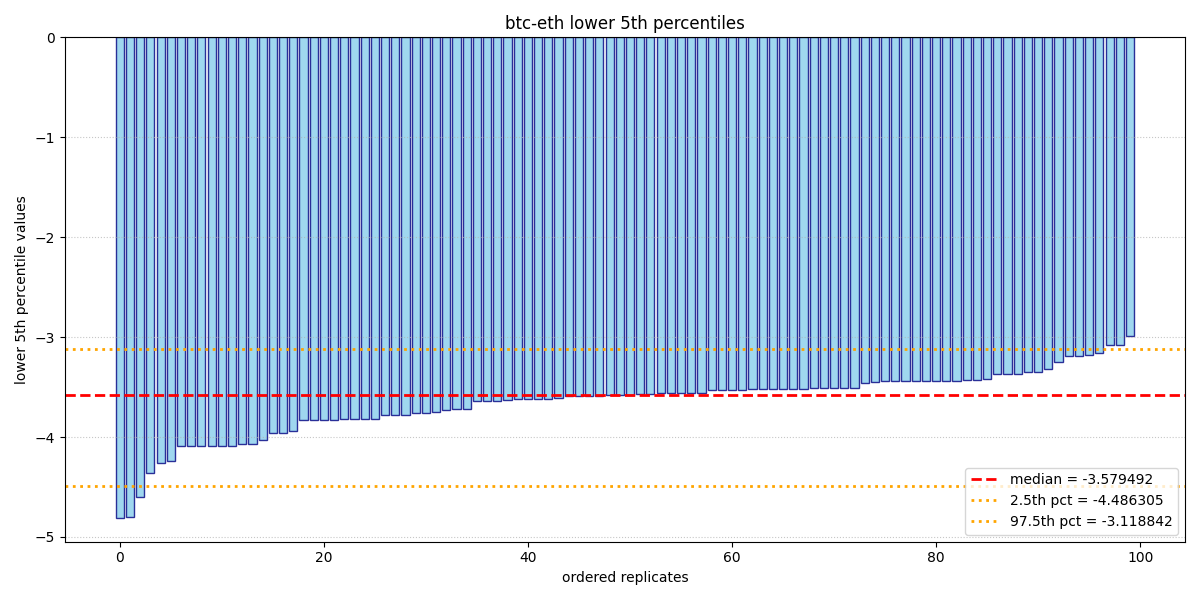
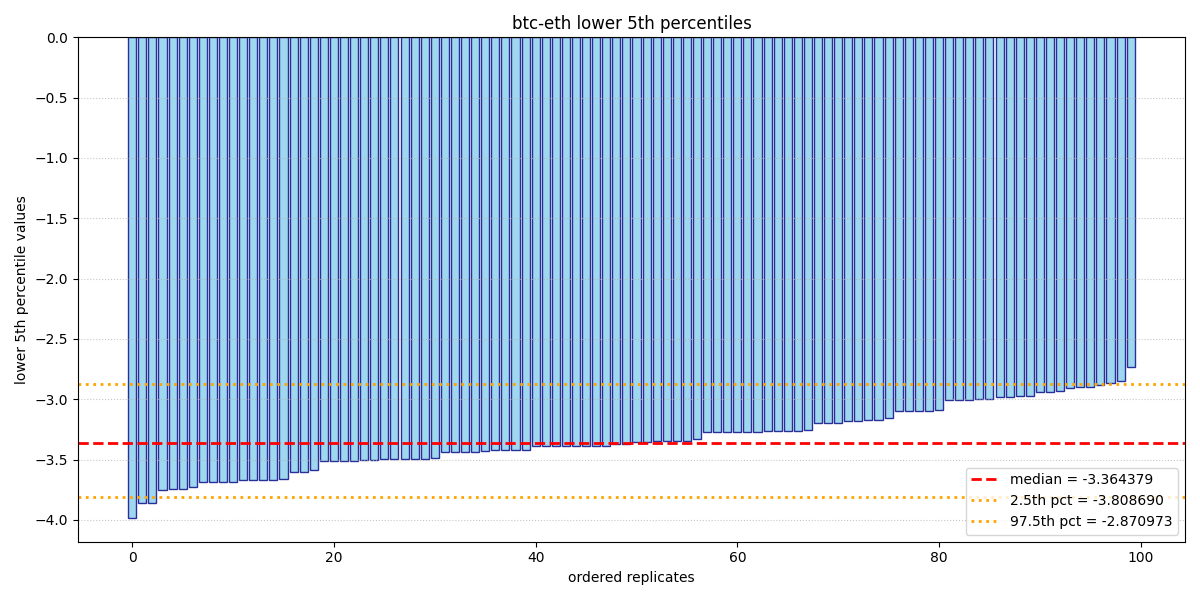
save

diff --git a/src/priceData.py b/src/priceData.py
@@ -1,0 +1,128 @@
+import requests
+import csv
+import os
+import pandas as pd
+from loadCSV import load_from_file as _load
+from saveCSV import save_to_file as _save
+from datetime import datetime, timedelta, timezone
+
+
+def download_new_file(fileName: str, cryptoSymbol: str) -> bool:
+    existingDF = _load(fileName, ['date',f'{cryptoSymbol.lower()}_closing_price_usd'])
+
+    if existingDF.empty:
+        print('no existing data.. downloading new data..')
+        return True
+
+    latest = existingDF.iloc[-1]['date']
+    latestDate = datetime.fromisoformat(latest).date()
+    print(f'latest entry(utc): {latestDate}')
+
+    currentUTC = datetime.now(timezone.utc).date()
+    print(f'current utc: {currentUTC}')
+
+    if latestDate < currentUTC:
+        print('data is behind.. downloading new data..')
+        return True
+    else:
+        print('data is up to date.. no need to download..')
+        return False
+
+
+def download_crypto_daily_closing(crypto_symbol: str, fiat_symbol: str = 'usd', years: int = 2) -> None:
+    print('')
+    print(f' --- checking data on {crypto_symbol} --- ')
+
+    fileName = f'{crypto_symbol.lower()}_daily_closing_{years}years.csv'
+  
+    if not download_new_file(fileName, crypto_symbol):
+        # skip download if existing data is good
+        return
+    
+    url = 'https://min-api.cryptocompare.com/data/v2/histohour'
+    
+    # Fetch all hourly data needed (~2+ years)
+    hourly_data = []
+    cutoff_days = years * 365 + 30
+    cutoff_time = int((datetime.now(timezone.utc) - timedelta(days=cutoff_days)).timestamp())
+
+    to_ts = None
+    while True:
+        params = {
+            'fsym': crypto_symbol.upper(),
+            'tsym': fiat_symbol.upper(),
+            'limit': 2000,
+            'aggregate': 1
+        }
+        if to_ts is not None:
+            params['toTs'] = to_ts
+
+        try:
+            response = requests.get(url, params=params)
+            response.raise_for_status()
+            data = response.json()
+        except requests.exceptions.RequestException as e:
+            raise Exception(f'request failed: {e}')
+   
+        if data['Response'] != 'Success':
+            raise Exception(f'API error: {data.get('Message', 'Unknown error')}')
+        
+        batch = data['Data']['Data']
+        if not batch:
+            break
+
+        hourly_data.extend(batch)
+
+        if len(batch) < 2000:
+            break
+
+        oldest_time = batch[0]['time']  # oldest in this batch
+        to_ts = oldest_time - 1
+
+        if oldest_time < cutoff_time:
+            break
+
+    if not hourly_data:
+        raise Exception('no data returned from the API')
+
+    # sort just in case
+    hourly_data.sort(key=lambda x: x['time'])
+
+    # Filter to recent data
+    recent_data = [entry for entry in hourly_data if entry['time'] >= cutoff_time]
+
+    # Select only the 13:00 UTC hour (22:00 KST) and use its open price ≈ price at 22:00 KST
+    target_hour = 13
+    selected_data = []
+    for entry in recent_data:
+        entry_dt = datetime.fromtimestamp(entry['time'], tz=timezone.utc)
+        if entry_dt.hour == target_hour:
+            selected_data.append(entry)
+
+    if not selected_data:
+        raise Exception('no selected data after filtering')
+
+    # latest entry (for printing)
+    latest_entry = selected_data[-1]
+    latest_date = datetime.fromtimestamp(latest_entry['time']).strftime('%Y-%m-%d')
+    latest_price = latest_entry['open']  # open of the 13:00 UTC hour
+
+    print('')
+    print(f'latest closing price: ${latest_price:,.2f} on {latest_date} (~22:00 KST)')
+    print(f'fetched {len(hourly_data)} total hourly points')
+    print(f'selected {len(selected_data)} daily points (22:00 KST) for the last ~{years} years')
+
+    # convert to DataFrame and save to file
+    rows = []
+    for entry in selected_data:
+        date_str = datetime.fromtimestamp(entry['time']).strftime('%Y-%m-%d')
+        price = entry['open']
+        rows.append({'date': date_str, f'{crypto_symbol.lower()}_closing_price_usd': price})
+
+    df = pd.DataFrame(rows)
+
+    _save(df, fileName)
+
+
+if __name__ == '__main__':
+    download_crypto_daily_closing('btc')

diff --git a/src/getStats.py b/src/getStats.py
@@ -1,7 +1,8 @@
 #getStats.py
 
 import time
-from downloadPriceData import download_crypto_daily_closing
+#from downloadPriceData import download_crypto_daily_closing #based on 0utc
+from priceData import download_crypto_daily_closing
 from getPriceRatio import get_price_ratio 
 from getPriceChange import get_price_change
 from sortPriceChange import sort_price_change

diff --git a/src/downloadPriceData.py b/src/downloadPriceData.py
@@ -1,5 +1,3 @@
-#downloadPriceData.py
-
 import requests
 import csv
 import os
